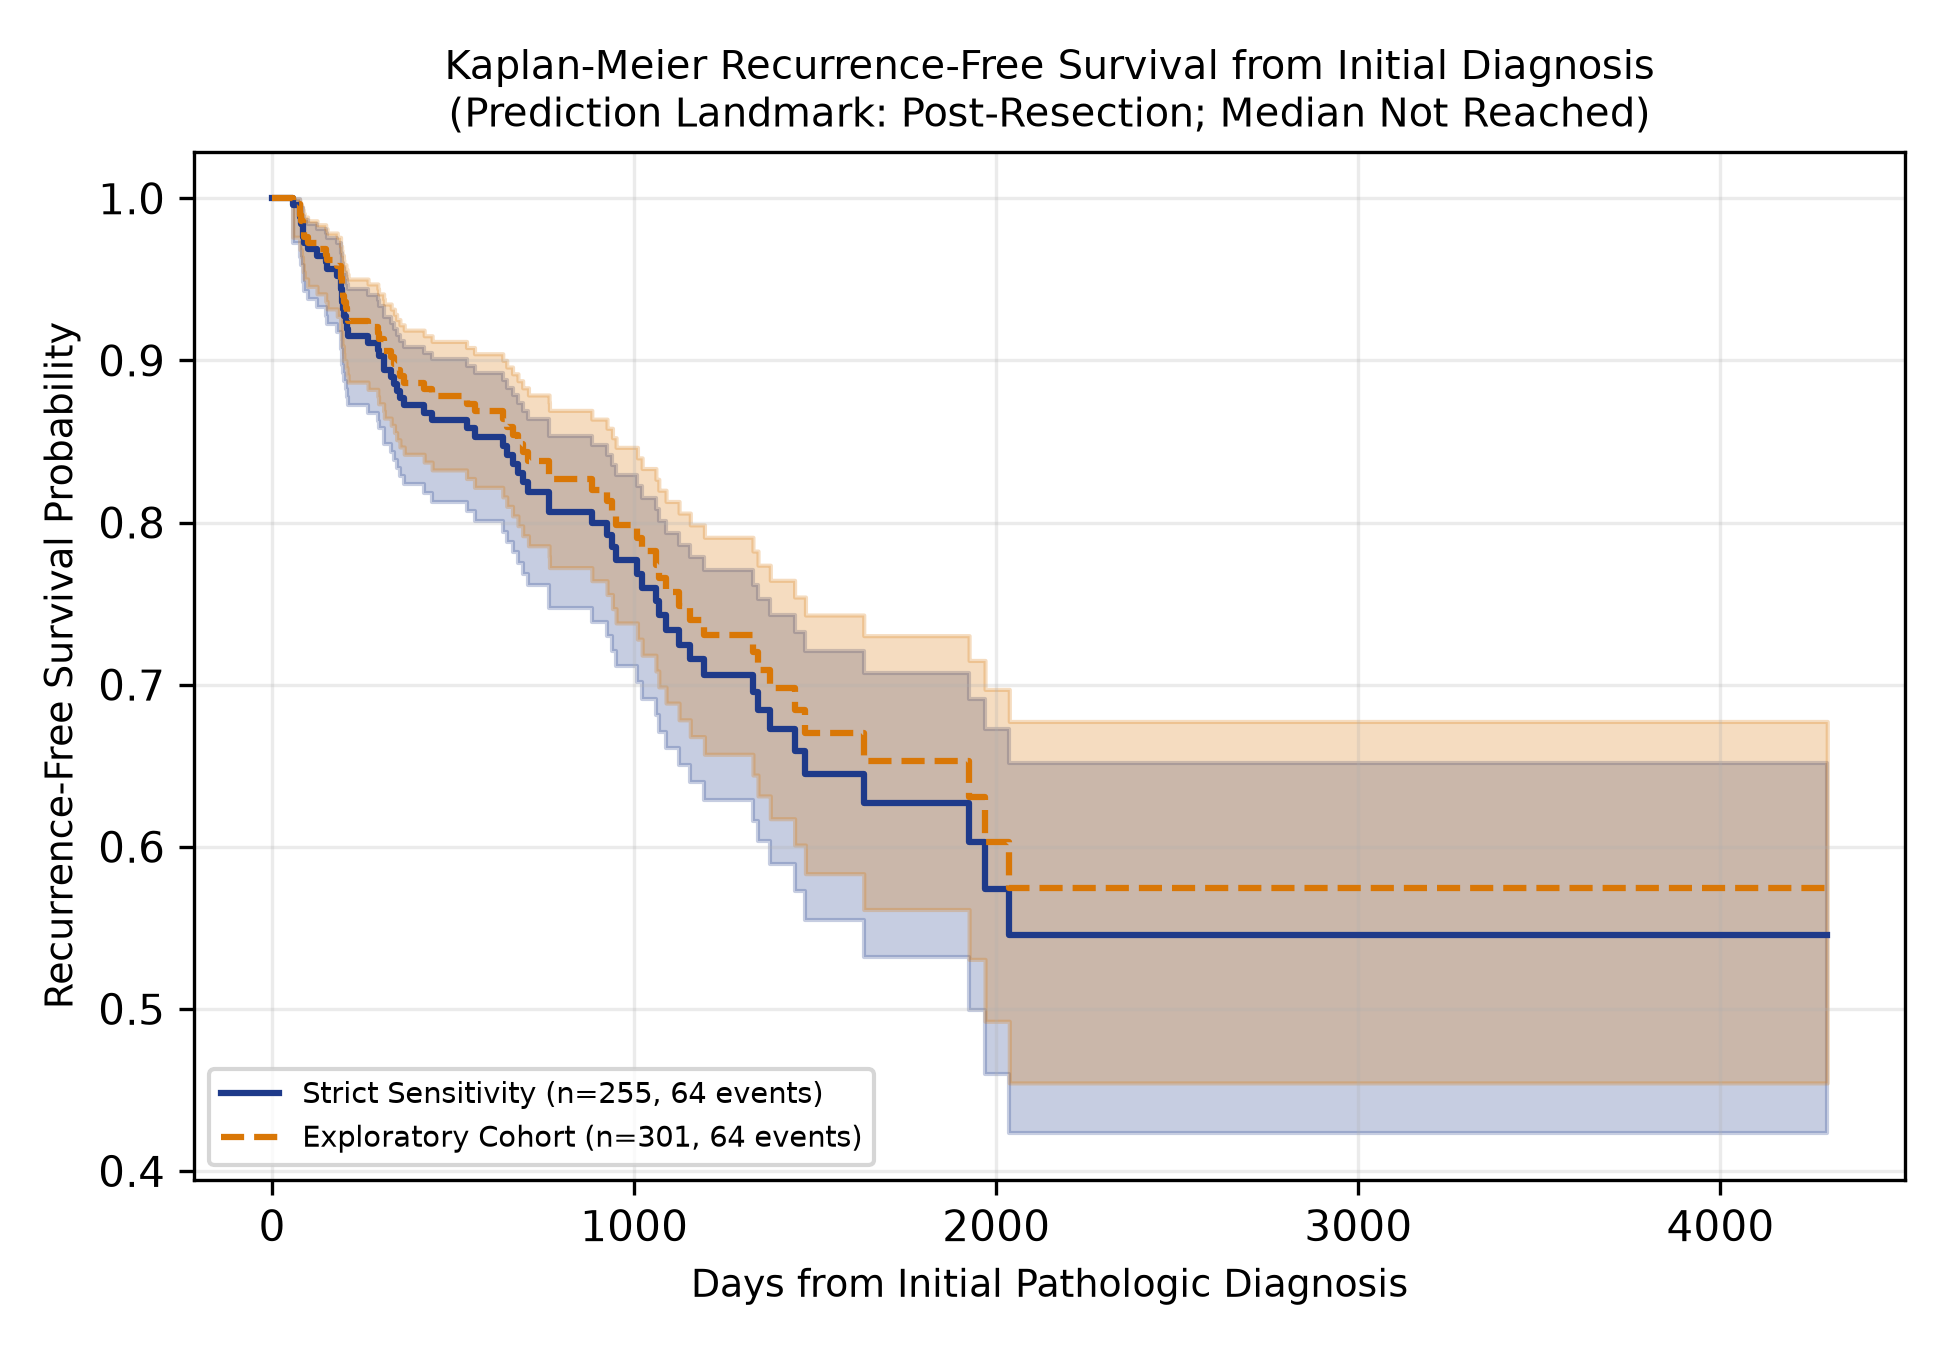
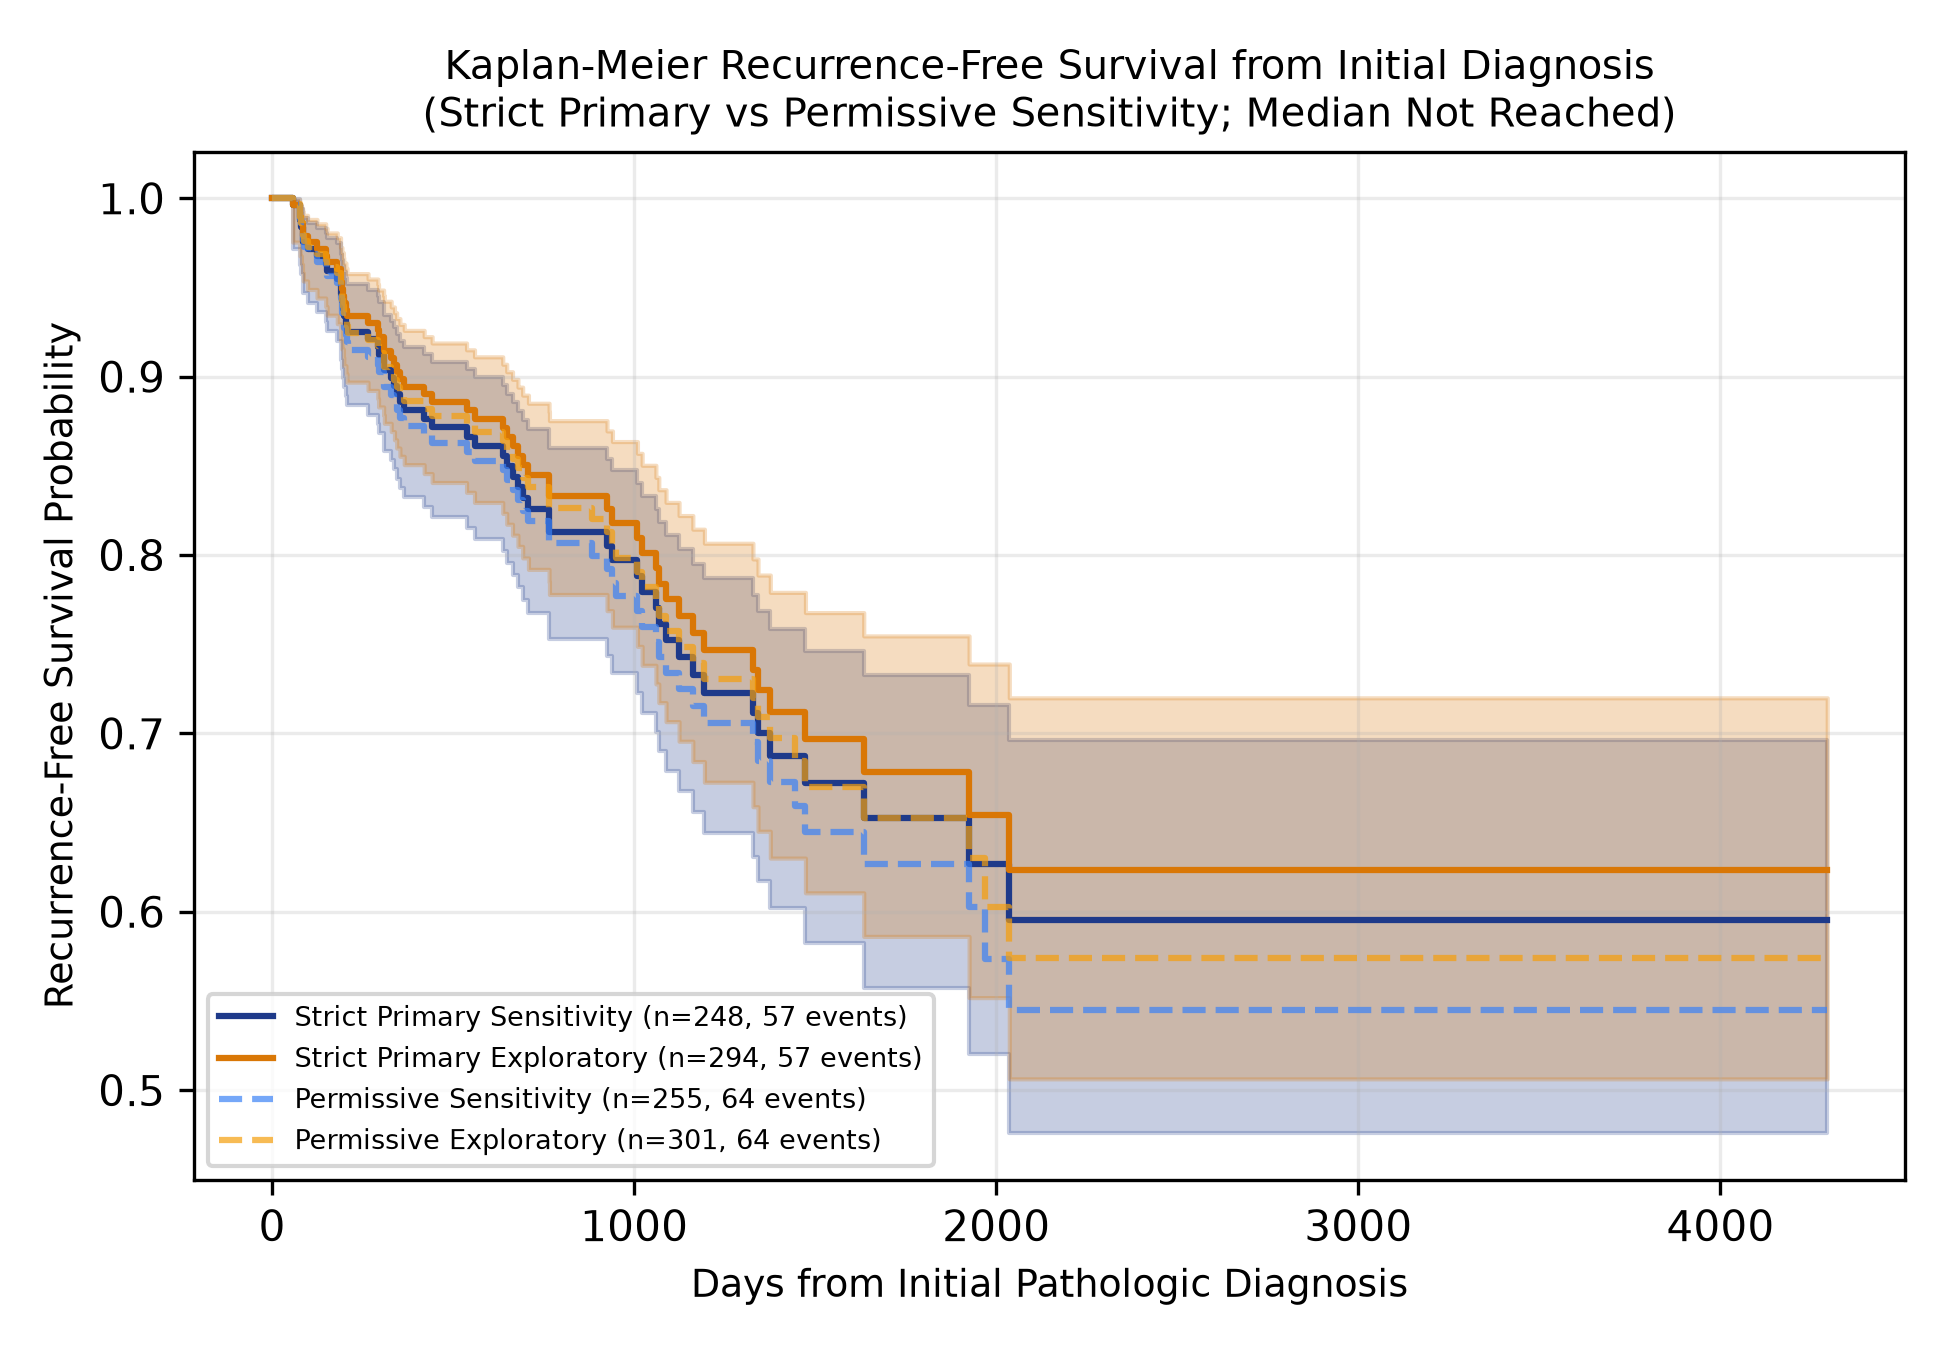
deploy(v3.2): deploy provenance reconciliation, 4-tier survival analysis, and strict calibration metrics to gh-pages

diff --git a/index.html b/index.html
@@ -49,9 +49,9 @@
           <div class="audit-row"><span>Double Negatives:</span><strong>191 (73.2%)</strong></div>
           <div class="audit-row"><span>Second Primaries:</span><strong class="text-alert">2 (Separated)</strong></div>
           <div class="audit-row"><span>Paired Molecular:</span><strong>187 Patients</strong></div>
-          <div class="audit-row"><span>Strict Survival:</span><strong>255 Patients</strong></div>
-          <div class="audit-row"><span>Exploratory Survival:</span><strong>301 Patients</strong></div>
-          <div class="audit-row"><span>Survival Excluded:</span><strong class="text-alert">13 (6 undated)</strong></div>
+          <div class="audit-row"><span>Strict Survival:</span><strong>248 Patients</strong></div>
+          <div class="audit-row"><span>Exploratory Survival:</span><strong>294 Patients</strong></div>
+          <div class="audit-row"><span>Survival Excluded:</span><strong class="text-alert">20 (13 undated)</strong></div>
         </div>
       </nav>
 
@@ -94,10 +94,10 @@
             
             <div class="callout callout-note">
               <h4>Key Scientific Findings</h4>
-              <p>1. <strong>Primary Paired Molecular Benchmark (n=187):</strong> On identical participants, pure baseline clinical staging achieved an AUROC of 0.710 (95% CI: 0.621–0.791) and Brier score of 0.1673 (95% CI: 0.1366–0.2018), whereas adding the 13-gene expression panel yielded 0.703 (95% CI: 0.605–0.792) and Brier score of 0.1672 (95% CI: 0.1329–0.2057; paired ΔAUROC: -0.008, 95% CI: [-0.073, +0.056]; paired ΔBrier: -0.0001, 95% CI: [-0.0198, +0.0199]). The molecular panel provided no statistically significant incremental discrimination or calibration improvement.</p>
-              <p>2. <strong>Predictor Chronology & Landmark Setting:</strong> Follow-up is indexed from initial diagnostic biopsy (Day 0 for 98.1% of patients), while surgical pathology and RNA sequencing are landmarked post-radical prostatectomy with an unmeasured biopsy-to-surgery interval. The XML <code>psa_value</code> was measured at a median of 511.0 days post-initial diagnosis (271 of 276 values post-baseline), representing post-treatment surveillance monitoring rather than pre-operative baseline PSA, and was strictly excluded from baseline Cox survival models.</p>
+              <p>1. <strong>Primary Paired Molecular Benchmark (n=187):</strong> On identical participants, pure baseline clinical staging achieved an AUROC of 0.710 (95% CI: 0.621–0.791), Brier score of 0.1673 (95% CI: 0.1366–0.2018), and calibration slope of 0.756, whereas adding the 13-gene expression panel yielded 0.703 (95% CI: 0.605–0.792), Brier score of 0.1672 (95% CI: 0.1329–0.2057), and calibration slope of 0.511 (paired ΔAUROC: -0.008, 95% CI: [-0.073, +0.056]; paired ΔBrier: -0.0001, 95% CI: [-0.0198, +0.0199]). The molecular panel provided no statistically significant incremental discrimination or Brier score improvement, while compressing the calibration slope from 0.756 to 0.511.</p>
+              <p>2. <strong>Predictor Chronology & Landmark Setting:</strong> Follow-up is indexed from initial diagnostic biopsy (Day 0 for 97.1% of patients [305/314; 98.1% of 311 patients with non-missing diagnostic method]), while surgical pathology and RNA sequencing are landmarked post-radical prostatectomy with an unmeasured biopsy-to-surgery interval. The XML <code>psa_value</code> was measured at a median of 511.0 days post-initial diagnosis (271 of 276 values post-baseline), representing post-treatment surveillance monitoring rather than pre-operative baseline PSA, and was strictly excluded from baseline Cox survival models.</p>
               <p>3. <strong>Endpoint Concordance & Second Primary Separation:</strong> Biochemical recurrence agreed 100.0% (269/269) with cBioPortal, while disease-free survival agreed in 92.3% (239/259), uncovering 20 patients with XML-documented recurrence labeled DiseaseFree in cBioPortal. Two patients with non-prostatic new primary tumors (TCGA-CH-5791, TCGA-HC-7080) were adjudicated and separated from prostate recurrence.</p>
-              <p>4. <strong>Survival Analysis from Initial Diagnosis:</strong> In continuous-time survival analysis from initial diagnosis, median recurrence-free survival was not reached in either cohort. Strict sensitivity analysis restricted to documented double-negatives (n=255, 64 dated events) showed an out-of-fold Cox concordance of 0.649 (apparent 0.686), compared with 0.646 when admitting 46 asymmetric records (n=301). Time origin is explicitly indexed to initial pathologic diagnosis.</p>
+              <p>4. <strong>Survival Analysis from Initial Diagnosis:</strong> In continuous-time survival analysis from initial diagnosis, median recurrence-free survival was not reached in any cohort. Strict primary sensitivity analysis withholding 7 unverified contradictory BCR dates (n=248, 57 dated events, 191 double-negatives) showed an out-of-fold Cox concordance of 0.672 (apparent 0.701; 1-yr RFS: 88.1%, 5-yr RFS: 65.3%), compared with 0.670 when admitting 46 asymmetric records (n=294). Permissive sensitivity benchmarking (admitting 7 unverified dates; n=255 and n=301, 64 dated events) achieved out-of-fold concordance of 0.649 and 0.646. Time origin is explicitly indexed to initial pathologic diagnosis.</p>
             </div>
           </div>
         </section>
@@ -141,8 +141,8 @@
               </div>
               <div class="flow-branch">
                 <span class="branch-label">Strict Continuous Survival Cohort</span>
-                <span class="branch-count">255 Patients</span>
-                <span class="branch-desc">64 Dated Events + 191 Double-Negative Censored</span>
+                <span class="branch-count">248 Patients</span>
+                <span class="branch-desc">57 Dated Events + 191 Double-Negative Censored (n=255 in Permissive)</span>
               </div>
             </div>
           </div>
@@ -155,8 +155,8 @@
                   <th>Cohort Definition</th>
                   <th>Primary Definitive (n=261)</th>
                   <th>Paired Molecular (n=187)</th>
-                  <th>Strict Survival (n=255)</th>
-                  <th>Exploratory Survival (n=301)</th>
+                  <th>Strict Survival (n=248)</th>
+                  <th>Exploratory Survival (n=294)</th>
                 </tr>
               </thead>
               <tbody>
@@ -164,9 +164,40 @@
                   <td><strong>Documented Recurrence Events</strong></td>
                   <td>70</td>
                   <td>44</td>
-                  <td>64 (dated)</td>
-                  <td>64 (dated)</td>
+                  <td>57 (dated)</td>
+                  <td>57 (dated)</td>
                 </tr>
+                <tr>
+                  <td><strong>Documented Double-Negatives</strong></td>
+                  <td>191</td>
+                  <td>143</td>
+                  <td>191</td>
+                  <td>191</td>
+                </tr>
+                <tr>
+                  <td><strong>Asymmetric Surveillance Cases</strong></td>
+                  <td>0 (excluded)</td>
+                  <td>0 (excluded)</td>
+                  <td>0 (excluded)</td>
+                  <td>46 (included as non-events)</td>
+                </tr>
+                <tr>
+                  <td><strong>Second Primary Malignancies</strong></td>
+                  <td>0 (excluded)</td>
+                  <td>0 (excluded)</td>
+                  <td>0 (excluded)</td>
+                  <td>0 (excluded)</td>
+                </tr>
+                <tr>
+                  <td><strong>Fully Indeterminate Cases</strong></td>
+                  <td>0 (excluded)</td>
+                  <td>0 (excluded)</td>
+                  <td>0 (excluded)</td>
+                  <td>0 (excluded)</td>
+                </tr>
+              </tbody>
+            </table>
+          </div>
                 <tr>
                   <td><strong>Documented Double-Negative Non-Events</strong></td>
                   <td>191</td>
@@ -436,14 +467,14 @@
               <h3>Kaplan-Meier Recurrence-Free Survival</h3>
               <img src="static/figures/prad_km_survival.png" alt="Kaplan Meier RFS" class="chart-img">
               <div class="stat-callout-row">
-                <div><span>Strict 1-Yr RFS</span><strong>87.2%</strong></div>
-                <div><span>Strict 3-Yr RFS</span><strong>73.4%</strong></div>
-                <div><span>Strict 5-Yr RFS</span><strong>62.7%</strong></div>
+                <div><span>Strict 1-Yr RFS</span><strong>88.1%</strong></div>
+                <div><span>Strict 3-Yr RFS</span><strong>75.2%</strong></div>
+                <div><span>Strict 5-Yr RFS</span><strong>65.3%</strong></div>
               </div>
             </div>
 
             <div class="card">
-              <h3>Strict Sensitivity (n=255) vs Exploratory (n=301)</h3>
+              <h3>Strict Primary vs Permissive Sensitivity</h3>
               <table class="data-table">
                 <thead>
                   <tr>
@@ -456,30 +487,44 @@
                 </thead>
                 <tbody>
                   <tr class="row-highlight">
-                    <td><strong>Strict Sensitivity (Double-Negatives Only)</strong></td>
+                    <td><strong>Strict Primary Sensitivity (Double-Negatives Only)</strong></td>
+                    <td>248</td>
+                    <td>57</td>
+                    <td>191</td>
+                    <td><strong>0.672</strong> (Apparent: 0.701)</td>
+                  </tr>
+                  <tr>
+                    <td><strong>Strict Primary Exploratory (Admitting 46 Asymmetric)</strong></td>
+                    <td>294</td>
+                    <td>57</td>
+                    <td>237</td>
+                    <td><strong>0.670</strong> (Apparent: 0.703)</td>
+                  </tr>
+                  <tr>
+                    <td><em>Permissive Sensitivity (Double-Negatives Only)</em></td>
                     <td>255</td>
                     <td>64</td>
                     <td>191</td>
-                    <td><strong>0.649</strong> (Apparent: 0.686)</td>
+                    <td>0.649 (Apparent: 0.686)</td>
                   </tr>
                   <tr>
-                    <td><strong>Exploratory (Admitting 46 Asymmetric)</strong></td>
+                    <td><em>Permissive Exploratory (Admitting 46 Asymmetric)</em></td>
                     <td>301</td>
                     <td>64</td>
                     <td>237</td>
-                    <td><strong>0.646</strong> (Apparent: 0.688)</td>
+                    <td>0.646 (Apparent: 0.688)</td>
                   </tr>
                 </tbody>
               </table>
 
               <div class="concordance-badge" style="margin-top: 1.5rem;">
                 <span>Proportional Hazards Evaluation (Schoenfeld Rank Test):</span>
-                <strong>Strict: Age p=0.49, Gleason p=0.55 (No statistically significant violation detected, p > 0.05)</strong>
+                <strong>Strict: Age p=0.39, Gleason p=0.34 (No statistically significant violation detected, p > 0.05)</strong>
               </div>
 
               <div class="callout callout-note" style="margin-top: 1rem;">
-                <h4>Selection Bias Analysis (13 Excluded Patients)</h4>
-                <p>Six undated prostate recurrence events, two second non-prostatic primary cancers, and five fully indeterminate cases were excluded from exact-time survival analysis. These 13 patients exhibited 90.0% T3/T4 stage (vs 60.9% in included) and 46.2% documented recurrence. Excluding undated events slightly enriches the survival cohort with lower-risk cases.</p>
+                <h4>Selection Bias Analysis (20 Excluded Patients)</h4>
+                <p>Thirteen undated prostate recurrence events, two second non-prostatic primary cancers, and five fully indeterminate cases were excluded from strict exact-time survival analysis. These 20 patients exhibited 90.0% T3/T4 stage (vs 60.9% in included) and 65.0% documented recurrence (13/20). Excluding undated events slightly enriches the survival cohort with lower-risk cases, making the reported RFS conservative upper bounds.</p>
               </div>
             </div>
           </div>
@@ -517,7 +562,7 @@ pytest tests/</code></pre>
           <div class="metadata-grid">
             <div class="meta-item"><span>Primary Binary Endpoint:</span><code>outcome_definitive_recurrence (n=261)</code></div>
             <div class="meta-item"><span>Paired Molecular Cohort:</span><code>n=187 (44 events, 143 non-events)</code></div>
-            <div class="meta-item"><span>Strict Survival Cohort:</span><code>n=255 (64 dated events, 191 censored)</code></div>
+            <div class="meta-item"><span>Strict Survival Cohort:</span><code>n=248 (57 dated events, 191 censored; n=255 permissive)</code></div>
             <div class="meta-item"><span>Time Origin:</span><code>Days from Initial Pathologic Diagnosis</code></div>
           </div>
         </section>
